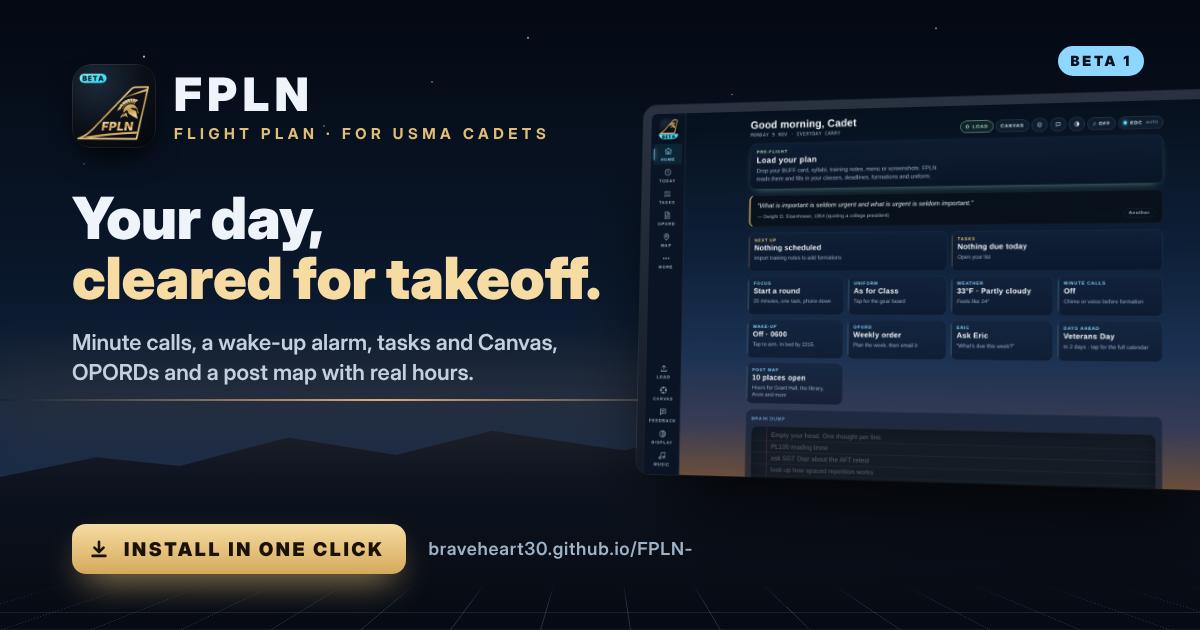
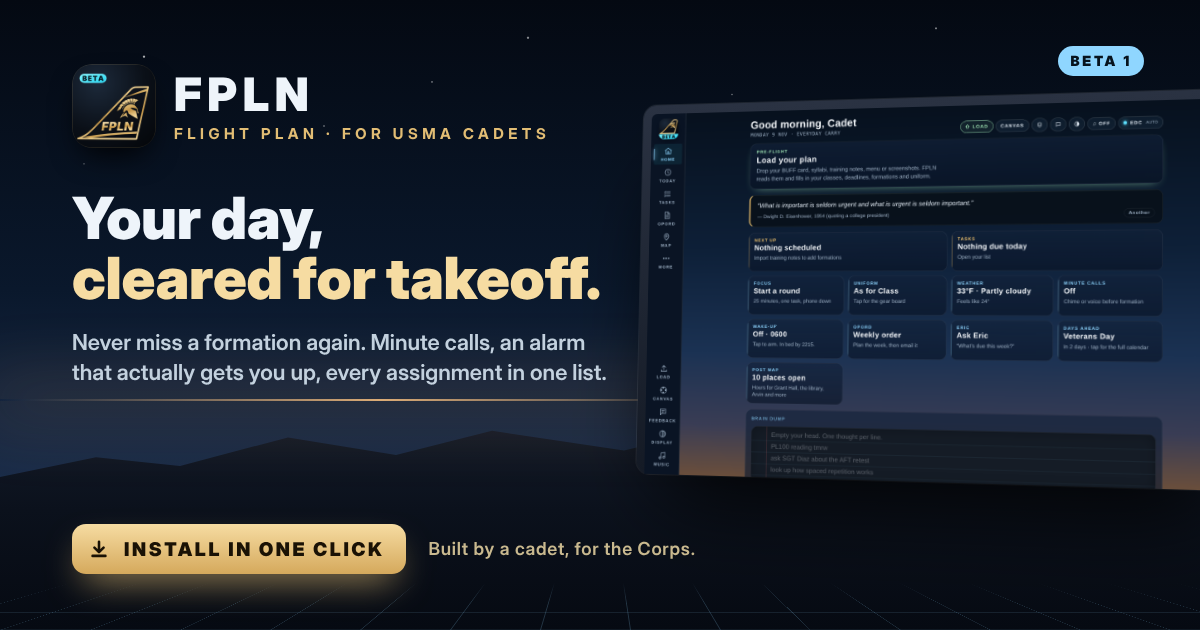
Share kit: hide the site address, new app pitch
Claude-Session: https://claude.ai/code/session_011jD4QDxCtaX3J484wLwUiF

Changed region(s): [[0.0617, 0.5127, 0.5242, 0.6032], [0.3392, 0.8444, 0.5858, 0.9048]]

diff --git a/share/index.html b/share/index.html
@@ -3,7 +3,7 @@
 <meta name="viewport" content="width=device-width,initial-scale=1,viewport-fit=cover">
 <title>Share FPLN · Flight Plan (beta)</title>
 <meta name="description" content="Badges, a QR code and a ready-to-send link for FPLN, the Flight Plan app for USMA cadets.">
-<meta property="og:type" content="website"><meta property="og:title" content="FPLN · Your day, cleared for takeoff."><meta property="og:description" content="Install the FPLN beta in one click.">
+<meta property="og:type" content="website"><meta property="og:title" content="FPLN · Your day, cleared for takeoff."><meta property="og:description" content="Never miss a formation again. Minute calls that count you down, an alarm that actually gets you up, every assignment in one list and a post map that knows what’s open. Built by a cadet, for the Corps.">
 <meta property="og:url" content="https://braveheart30.github.io/FPLN-/download/"><meta property="og:image" content="https://braveheart30.github.io/FPLN-/share/og.png">
 <meta name="twitter:card" content="summary_large_image"><meta name="theme-color" content="#060b14"><link rel="icon" href="../favicon.ico">
 <link rel="stylesheet" href="https://fonts.googleapis.com/css2?family=Barlow:wght@400;500;600&family=Chakra+Petch:wght@500;600;700&display=swap">
@@ -61,9 +61,9 @@ code{display:block;font:12.5px/1.5 ui-monospace,monospace;background:rgba(0,0,0,
 
 <p class="kick">Share kit</p>
 <h1>Send FPLN to your classmates</h1>
-<p class="lead">One link, a badge for emails and docs, and a QR code for formation. Everything opens the one-click install page.</p>
+<p class="lead">Know someone who’s always one minute late? Send them FPLN. One link, a badge for emails and a QR code for formation, and every one of them opens the one-click install.</p>
 
-<div class="chip"><img src="../icons/icon-192.png" alt=""><a id="lnk" href="../get/"><span>braveheart30.github.io/</span><b>FPLN-/get</b></a><button type="button" class="btn pri" data-copy="link"><svg viewBox="0 0 24 24" aria-hidden="true"><rect x="8" y="8" width="12" height="12" rx="2.5" fill="none" stroke="currentColor" stroke-width="2.2"/><path d="M16 5.5A1.5 1.5 0 0 0 14.5 4h-9A1.5 1.5 0 0 0 4 5.5v9A1.5 1.5 0 0 0 5.5 16" fill="none" stroke="currentColor" stroke-width="2.2"/></svg>Copy link</button></div>
+<div class="chip"><img src="../icons/icon-192.png" alt=""><a id="lnk" href="../get/"><b>Get FPLN</b> <span>· one-click install link</span></a><button type="button" class="btn pri" data-copy="link"><svg viewBox="0 0 24 24" aria-hidden="true"><rect x="8" y="8" width="12" height="12" rx="2.5" fill="none" stroke="currentColor" stroke-width="2.2"/><path d="M16 5.5A1.5 1.5 0 0 0 14.5 4h-9A1.5 1.5 0 0 0 4 5.5v9A1.5 1.5 0 0 0 5.5 16" fill="none" stroke="currentColor" stroke-width="2.2"/></svg>Copy link</button></div>
 <div class="row"><button type="button" class="btn gh" id="shr" hidden>Share…</button><button type="button" class="btn gh" data-copy="msg">Copy a ready-made message</button></div>
 
 <section><h2>Badges</h2><p class="sub">“Copy for email” copies the badge as a clickable picture: paste it into Gmail, Outlook, Teams or a Google Doc.</p>
@@ -76,18 +76,20 @@ code{display:block;font:12.5px/1.5 ui-monospace,monospace;background:rgba(0,0,0,
 
 <section><h2>QR code</h2><p class="sub">For a slide, a whiteboard or your phone screen at formation. Tap it to show it full screen.</p>
 <div class="card qr"><img src="qr.png" alt="QR code that opens the FPLN install page" id="qrImg" width="920" height="1178">
-  <div><p style="margin:0 0 6px;color:#c3d1de">Point a phone camera at it. It opens <b style="color:#fff;font-weight:600">braveheart30.github.io/FPLN-/download</b>, which shows the right install steps for that phone.</p>
+  <div><p style="margin:0 0 6px;color:#c3d1de">Point a phone camera at it. It opens the FPLN install page, which shows the right install steps for that phone.</p>
   <div class="row"><a class="btn gh" href="qr.png" download="FPLN-QR.png">Download QR</a><button type="button" class="btn gh" id="qrBig">Show full screen</button></div></div></div></section>
 
 <section class="og"><h2>Link preview</h2><p class="sub">What people see when you paste the link into iMessage, GroupMe, Teams, Discord or Slack.</p>
-<div class="card"><img src="og.png" alt="Link preview: FPLN, Your day, cleared for takeoff. Install in one click." width="1200" height="630"><div class="meta"><b>FPLN · Your day, cleared for takeoff.</b>Minute calls, a wake-up alarm, tasks and Canvas, OPORDs and a post map with real hours. Install the beta in one click.</div></div></section>
+<div class="card"><img src="og.png" alt="Link preview: FPLN, Your day, cleared for takeoff. Install in one click." width="1200" height="630"><div class="meta"><b>FPLN · Your day, cleared for takeoff.</b>Never miss a formation again. Minute calls that count you down, an alarm that actually gets you up, every assignment in one list and a post map that knows what’s open. Built by a cadet, for the Corps.</div></div></section>
 
 <section><h2>Ready-made message</h2>
-<pre class="msg" id="msgT">I'm testing FPLN (Flight Plan), a planner built for cadets: minute calls, a wake-up alarm, tasks and Canvas, and a post map with hours.
+<pre class="msg" id="msgT">Stop running late to formation. ✈
+
+FPLN (Flight Plan) is a planner built by a cadet, for the Corps. It counts down your minute calls, wakes you up with an alarm that actually works, keeps every assignment and Canvas deadline in one list, and knows what’s open on post right now.
 
 Install it in one click: https://braveheart30.github.io/FPLN-/get
 
-It updates by itself and your data stays on your own device. Keep CUI out of it. Use the Feedback button in the app for anything weird.</pre></section>
+Free, updates itself, and everything stays on your own device. I’m beta testing it, so hit the Feedback button with anything you want changed. (Keep CUI out of it.)</pre></section>
 </div>
 <div id="big"><img src="qr.png" alt="QR code that opens the FPLN install page"></div>
 <div id="toast" role="status" aria-live="polite"></div>

diff --git a/download/index.html b/download/index.html
@@ -3,9 +3,9 @@
 <meta name="viewport" content="width=device-width,initial-scale=1,viewport-fit=cover">
 <title>Get FPLN · Flight Plan (beta)</title>
 <link rel="manifest" href="../manifest.webmanifest">
-<meta property="og:type" content="website"><meta property="og:site_name" content="FPLN · Flight Plan"><meta property="og:title" content="FPLN · Your day, cleared for takeoff."><meta property="og:description" content="Minute calls, a wake-up alarm, tasks and Canvas, OPORDs and a post map with real hours. Install the beta in one click."><meta property="og:url" content="https://braveheart30.github.io/FPLN-/download/"><meta property="og:image" content="https://braveheart30.github.io/FPLN-/share/og.png"><meta property="og:image:width" content="1200"><meta property="og:image:height" content="630"><meta name="twitter:card" content="summary_large_image"><meta name="twitter:image" content="https://braveheart30.github.io/FPLN-/share/og.png">
+<meta property="og:type" content="website"><meta property="og:site_name" content="FPLN · Flight Plan"><meta property="og:title" content="FPLN · Your day, cleared for takeoff."><meta property="og:description" content="Never miss a formation again. Minute calls that count you down, an alarm that actually gets you up, every assignment in one list and a post map that knows what’s open. Built by a cadet, for the Corps."><meta property="og:url" content="https://braveheart30.github.io/FPLN-/download/"><meta property="og:image" content="https://braveheart30.github.io/FPLN-/share/og.png"><meta property="og:image:width" content="1200"><meta property="og:image:height" content="630"><meta name="twitter:card" content="summary_large_image"><meta name="twitter:image" content="https://braveheart30.github.io/FPLN-/share/og.png">
 <link rel="icon" href="../favicon.ico"><link rel="apple-touch-icon" href="../icons/apple-touch-icon.png">
-<meta name="theme-color" content="#060b14"><meta name="description" content="Install FPLN, the Flight Plan app for USMA cadets: minute calls, wake-up alarm, tasks and Canvas, OPORDs and a post map with hours. One click, updates itself. Beta.">
+<meta name="theme-color" content="#060b14"><meta name="description" content="Never miss a formation again. Minute calls that count you down, an alarm that actually gets you up, every assignment in one list and a post map that knows what’s open. Built by a cadet, for the Corps.">
 <link rel="preconnect" href="https://fonts.googleapis.com"><link rel="stylesheet" href="https://fonts.googleapis.com/css2?family=Barlow:wght@400;500;600&family=Chakra+Petch:wght@500;600;700&display=swap">
 <style>
 :root{--bg:#060b14;--panel:rgba(14,24,42,.72);--line:rgba(255,255,255,.1);--fg:#eef4fa;--dim:#9fb2c6;--faint:#6f8196;--gold:#e2bd74;--gold2:#f6dca2;--sky:#8fd6ff;--ok:#9fe3b4;
@@ -91,7 +91,7 @@ footer{padding:40px 0 60px;color:var(--faint);font-size:13.5px;border-top:1px so
   <div>
     <p class="kick">Flight Plan · for USMA cadets</p>
     <h1>Your day, <span>cleared for takeoff.</span></h1>
-    <p class="lead">Minute calls, a wake-up alarm you can trust, your tasks and Canvas, OPORDs and a post map with real hours. One app, set up in two minutes.</p>
+    <p class="lead">Never miss a formation again. FPLN counts down your minute calls, gets you up on time, keeps every assignment in one list and knows what’s open on post, so you stop chasing your day and start running it.</p>
     <div class="cta">
       <button type="button" class="go" id="go"><svg viewBox="0 0 24 24" aria-hidden="true"><path d="M12 4v11M7 10.5l5 5 5-5M5 19.5h14" fill="none" stroke="currentColor" stroke-width="2.4" stroke-linecap="round" stroke-linejoin="round"/></svg><span><span id="goT">Install FPLN</span><small id="goS">Free · one click</small></span></button>
       <div class="meta"><span>Updates itself</span><span>Works offline</span><span>Your data stays on your device</span></div>

diff --git a/index.html b/index.html
@@ -581,7 +581,7 @@
   }
   if(document.readyState === "loading") document.addEventListener("DOMContentLoaded", start); else start();
 })();
-</script><meta name="viewport" content="width=device-width,initial-scale=1,viewport-fit=cover"><meta name="application-name" content="FPLN"><meta name="description" content="Flight Plan: the cadet app"><meta property="og:type" content="website"><meta property="og:site_name" content="FPLN · Flight Plan"><meta property="og:title" content="FPLN · Your day, cleared for takeoff."><meta property="og:description" content="Minute calls, a wake-up alarm, tasks and Canvas, OPORDs and a post map with real hours. Install the beta in one click."><meta property="og:url" content="https://braveheart30.github.io/FPLN-/"><meta property="og:image" content="https://braveheart30.github.io/FPLN-/share/og.png"><meta property="og:image:width" content="1200"><meta property="og:image:height" content="630"><meta name="twitter:card" content="summary_large_image"><meta name="twitter:image" content="https://braveheart30.github.io/FPLN-/share/og.png"><script>window.FPLN_APP_BUILD=true;</script><script>window.FPLN_HOSTED=true;</script><title>FPLN</title><link rel="icon" href="favicon.ico" sizes="any"><link rel="icon" type="image/png" sizes="32x32" href="icons/icon-32.png"><link rel="manifest" href="manifest.webmanifest"><meta name="theme-color" content="#070a0f"><link rel="apple-touch-icon" href="icons/apple-touch-icon.png"><meta name="apple-mobile-web-app-capable" content="yes"><meta name="mobile-web-app-capable" content="yes"><meta name="apple-mobile-web-app-title" content="FPLN"><style>*,*::before,*::after{box-sizing:border-box}html,body{margin:0;padding:0}</style></head><body>
+</script><meta name="viewport" content="width=device-width,initial-scale=1,viewport-fit=cover"><meta name="application-name" content="FPLN"><meta name="description" content="FPLN (Flight Plan): never miss a formation again. Built by a cadet, for the Corps."><meta property="og:type" content="website"><meta property="og:site_name" content="FPLN · Flight Plan"><meta property="og:title" content="FPLN · Your day, cleared for takeoff."><meta property="og:description" content="Never miss a formation again. Minute calls that count you down, an alarm that actually gets you up, every assignment in one list and a post map that knows what’s open. Built by a cadet, for the Corps."><meta property="og:url" content="https://braveheart30.github.io/FPLN-/"><meta property="og:image" content="https://braveheart30.github.io/FPLN-/share/og.png"><meta property="og:image:width" content="1200"><meta property="og:image:height" content="630"><meta name="twitter:card" content="summary_large_image"><meta name="twitter:image" content="https://braveheart30.github.io/FPLN-/share/og.png"><script>window.FPLN_APP_BUILD=true;</script><script>window.FPLN_HOSTED=true;</script><title>FPLN</title><link rel="icon" href="favicon.ico" sizes="any"><link rel="icon" type="image/png" sizes="32x32" href="icons/icon-32.png"><link rel="manifest" href="manifest.webmanifest"><meta name="theme-color" content="#070a0f"><link rel="apple-touch-icon" href="icons/apple-touch-icon.png"><meta name="apple-mobile-web-app-capable" content="yes"><meta name="mobile-web-app-capable" content="yes"><meta name="apple-mobile-web-app-title" content="FPLN"><style>*,*::before,*::after{box-sizing:border-box}html,body{margin:0;padding:0}</style></head><body>
 <script>
 /* Launch screen: the sim-style background generator plays while FPLN loads. Skipped in tests, when framed, or when turned off in Display. */
 (function(){

diff --git a/get/index.html b/get/index.html
@@ -2,9 +2,9 @@
 <meta http-equiv="Content-Security-Policy" content="default-src 'self'; script-src 'unsafe-inline'; style-src 'unsafe-inline'; img-src 'self'; frame-src 'none'; form-action 'none'; object-src 'none'; base-uri 'self'">
 <meta name="viewport" content="width=device-width,initial-scale=1">
 <title>Get FPLN · Flight Plan (beta)</title>
-<meta name="description" content="Install FPLN, the Flight Plan app for USMA cadets. One click, updates itself.">
+<meta name="description" content="Install FPLN, the Flight Plan app for USMA cadets. Never miss a formation again.">
 <meta property="og:type" content="website"><meta property="og:site_name" content="FPLN · Flight Plan">
-<meta property="og:title" content="FPLN · Your day, cleared for takeoff."><meta property="og:description" content="Minute calls, a wake-up alarm, tasks and Canvas, OPORDs and a post map with real hours. Install the beta in one click.">
+<meta property="og:title" content="FPLN · Your day, cleared for takeoff."><meta property="og:description" content="Never miss a formation again. Minute calls that count you down, an alarm that actually gets you up, every assignment in one list and a post map that knows what’s open. Built by a cadet, for the Corps.">
 <meta property="og:url" content="https://braveheart30.github.io/FPLN-/download/"><meta property="og:image" content="https://braveheart30.github.io/FPLN-/share/og.png">
 <meta property="og:image:width" content="1200"><meta property="og:image:height" content="630"><meta property="og:image:alt" content="FPLN: Your day, cleared for takeoff. Install in one click.">
 <meta name="twitter:card" content="summary_large_image"><meta name="twitter:image" content="https://braveheart30.github.io/FPLN-/share/og.png">
